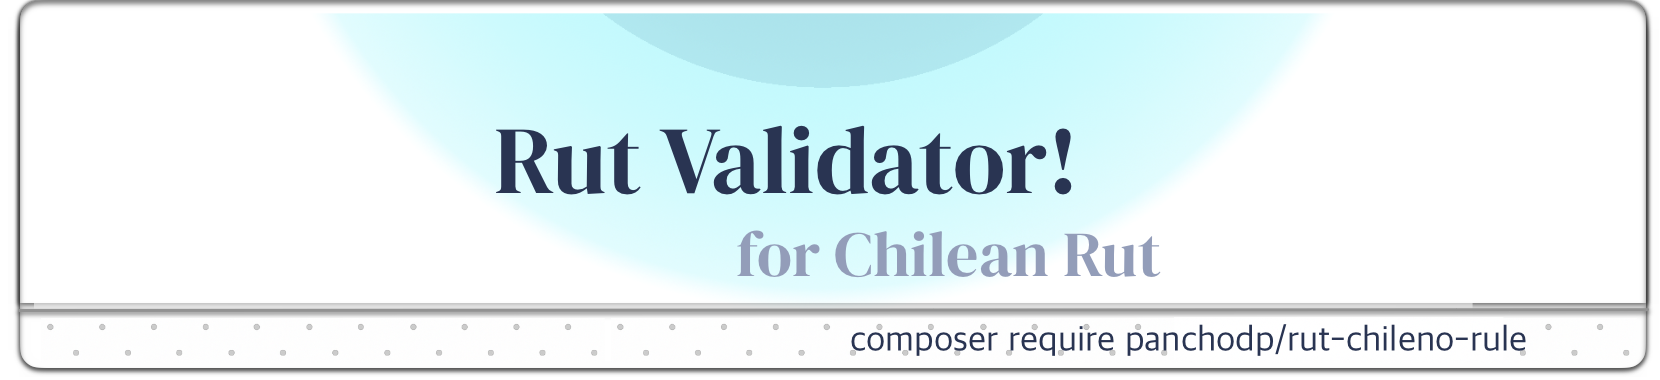
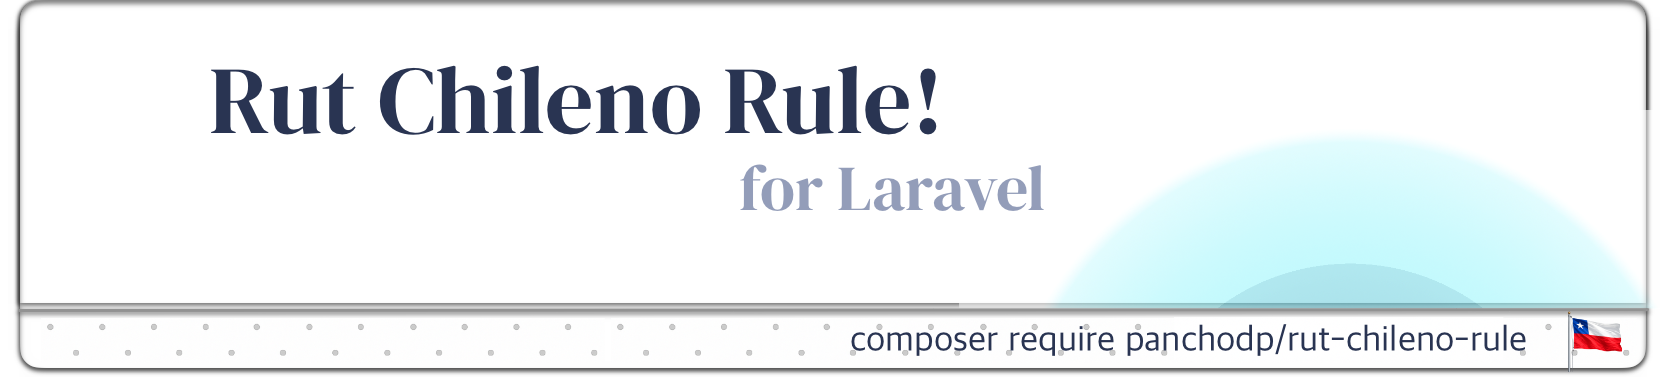
fix: Improve readme.md file

diff --git a/README.md b/README.md
@@ -7,7 +7,7 @@
 <a href="https://packagist.org/packages/panchodp/rut-chileno-rule"><img src="https://img.shields.io/packagist/v/panchodp/rut-chileno-rule.svg?" alt="Latest Stable Version"></a>
 <a href="https://packagist.org/packages/panchodp/rut-chileno-rule"><img src="https://img.shields.io/badge/License-MIT-green" alt="License"></a>
 
-# RUT Validator
+# Rut Chileno Rule for Laravel.
 
 Regla de validación de RUT chileno para Laravel.
 
